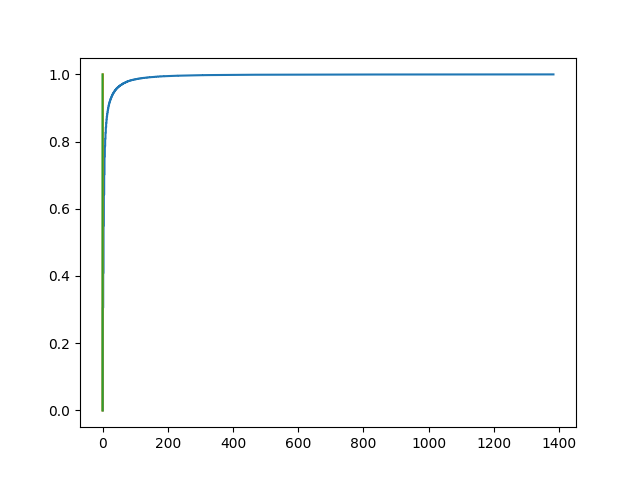
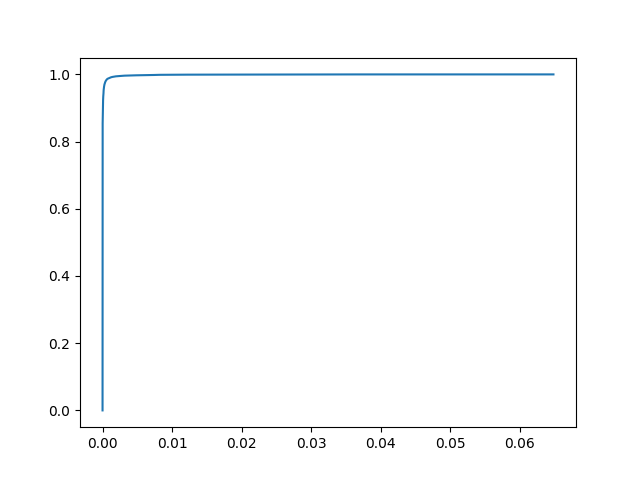
correcting plot and rendering the images again;

diff --git a/TP1/main.py b/TP1/main.py
@@ -47,6 +47,7 @@ def cdfReport(data, filename="export"):
     yvals = np.arange(len(sorted))/float(len(sorted))
     plt.plot(sorted, yvals)
     plt.savefig(filename)
+    plt.close()
 
 
 def degreesMetric(g, direct=True, graphName="default"):
@@ -107,12 +108,14 @@ def clusteringMetric(g, direct=True, graphName="default"):
     localResult = vertex_average(g, localCluster)
     maxClust = 0;
     minClust = infDistance;
+    list = []
     for v in g.vertices():
         if(localCluster[v] >= maxClust):
             maxClust = localCluster[v]
         if(localCluster[v] <= minClust):
             minClust = localCluster[v]
-    cdfReport(localCluster.a, filename)
+        list.append(localCluster[v])
+    cdfReport(list, filename)
 
     return {
         "global": global_clustering(g),
@@ -210,4 +213,4 @@ for graph in graphs:
     print(betweenessMetric(g, graphName=graph["graphName"]))
     print(componentsMetric(g, direct=graph["direct"], graphName=graph["graphName"]))
     print(closenessMetric(g, graphName=graph["graphName"]))
-    graph_draw(g, output_size=(2048, 1280), output=graph["graphName"] + ".png")
+    # graph_draw(g, output_size=(2048, 1280), output=graph["graphName"] + ".png")
